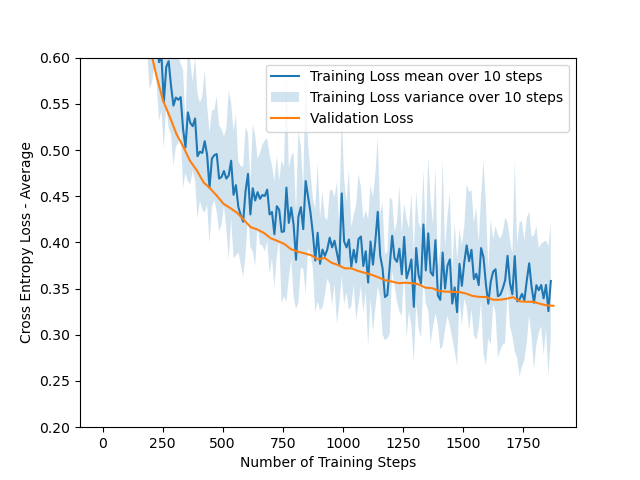
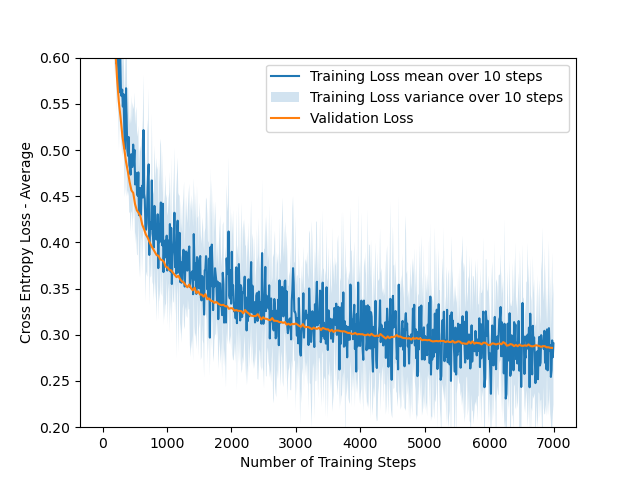
4c: wip
squash

Changed region(s): [[0.1562, 0.125, 0.9062, 0.9375], [0.2188, 0.9062, 0.2812, 0.9375]]

diff --git a/assignment1/task3.py b/assignment1/task3.py
@@ -91,74 +91,104 @@ if __name__ == "__main__":
 
     # ANY PARTS OF THE CODE BELOW THIS CAN BE CHANGED.
 
-    # Intialize model
-    model = SoftmaxModel(l2_reg_lambda)
-    # Train model
-    trainer = SoftmaxTrainer(
-        model,
-        learning_rate,
-        batch_size,
-        shuffle_dataset,
-        X_train,
-        Y_train,
-        X_val,
-        Y_val,
-    )
-    train_history, val_history = trainer.train(num_epochs)
+    beyond_task_4b = True
 
-    print(
-        "Final Train Cross Entropy Loss:",
-        cross_entropy_loss(Y_train, model.forward(X_train)),
-    )
-    print(
-        "Final Validation Cross Entropy Loss:",
-        cross_entropy_loss(Y_val, model.forward(X_val)),
-    )
-    print("Final Train accuracy:", calculate_accuracy(X_train, Y_train, model))
-    print("Final Validation accuracy:", calculate_accuracy(X_val, Y_val, model))
+    if beyond_task_4b:
+        # Intialize model
+        model = SoftmaxModel(l2_reg_lambda)
+        # Train model
+        trainer = SoftmaxTrainer(
+            model,
+            learning_rate,
+            batch_size,
+            shuffle_dataset,
+            X_train,
+            Y_train,
+            X_val,
+            Y_val,
+        )
+        train_history, val_history = trainer.train(num_epochs)
 
-    plt.ylim([0.2, 0.6])
-    utils.plot_loss(train_history["loss"], "Training Loss", npoints_to_average=10)
-    utils.plot_loss(val_history["loss"], "Validation Loss")
-    plt.legend()
-    plt.xlabel("Number of Training Steps")
-    plt.ylabel("Cross Entropy Loss - Average")
-    plt.savefig("task3b_softmax_train_loss.png")
-    plt.show()
+        print(
+            "Final Train Cross Entropy Loss:",
+            cross_entropy_loss(Y_train, model.forward(X_train)),
+        )
+        print(
+            "Final Validation Cross Entropy Loss:",
+            cross_entropy_loss(Y_val, model.forward(X_val)),
+        )
+        print("Final Train accuracy:", calculate_accuracy(X_train, Y_train, model))
+        print("Final Validation accuracy:", calculate_accuracy(X_val, Y_val, model))
 
-    # Plot accuracy
-    plt.ylim([0.89, 0.93])
-    utils.plot_loss(train_history["accuracy"], "Training Accuracy")
-    utils.plot_loss(val_history["accuracy"], "Validation Accuracy")
-    plt.xlabel("Number of Training Steps")
-    plt.ylabel("Accuracy")
-    plt.legend()
-    plt.savefig("task3b_softmax_train_accuracy.png")
-    plt.show()
+        plt.ylim([0.2, 0.6])
+        utils.plot_loss(train_history["loss"], "Training Loss", npoints_to_average=10)
+        utils.plot_loss(val_history["loss"], "Validation Loss")
+        plt.legend()
+        plt.xlabel("Number of Training Steps")
+        plt.ylabel("Cross Entropy Loss - Average")
+        plt.savefig("task3b_softmax_train_loss.png")
+        plt.show()
 
-    # Train a model with L2 regularization (task 4b)
+        # Plot accuracy
+        plt.ylim([0.89, 0.93])
+        utils.plot_loss(train_history["accuracy"], "Training Accuracy")
+        utils.plot_loss(val_history["accuracy"], "Validation Accuracy")
+        plt.xlabel("Number of Training Steps")
+        plt.ylabel("Accuracy")
+        plt.legend()
+        plt.savefig("task3b_softmax_train_accuracy.png")
+        plt.show()
 
-    model1 = SoftmaxModel(l2_reg_lambda=2.0)
-    trainer = SoftmaxTrainer(
-        model1,
-        learning_rate,
-        batch_size,
-        shuffle_dataset,
-        X_train,
-        Y_train,
-        X_val,
-        Y_val,
-    )
-    train_history_reg01, val_history_reg01 = trainer.train(num_epochs)
-    # You can finish the rest of task 4 below this point.
+        # Train a model with L2 regularization (task 4b)
 
-    # Plotting of softmax weights (Task 4b)
-    # plt.imsave("task4b_softmax_weight.png", weight, cmap="gray")
+        model1 = SoftmaxModel(l2_reg_lambda=2.0)
+        trainer = SoftmaxTrainer(
+            model1,
+            learning_rate,
+            batch_size,
+            shuffle_dataset,
+            X_train,
+            Y_train,
+            X_val,
+            Y_val,
+        )
+        train_history_reg01, val_history_reg01 = trainer.train(num_epochs)
 
-    # Plotting of accuracy for difference values of lambdas (task 4c)
-    l2_lambdas = [2, 0.2, 0.02, 0.002]
-    plt.savefig("task4c_l2_reg_accuracy.png")
+    else:
+        # You can finish the rest of task 4 below this point.
 
-    # Task 4d - Plotting of the l2 norm for each weight
+        # Plotting of softmax weights (Task 4b)
+        # plt.imsave("task4b_softmax_weight.png", weight, cmap="gray")
 
-    plt.savefig("task4d_l2_reg_norms.png")
+        # Plotting of accuracy for difference values of lambdas (task 4c)
+        l2_lambdas = [2, 0.2, 0.02, 0.002]
+
+        for l2_lambda in l2_lambdas:
+
+            model2 = SoftmaxModel(l2_reg_lambda=l2_lambda)
+
+            trainer = SoftmaxTrainer(
+                model2,
+                learning_rate,
+                batch_size,
+                shuffle_dataset,
+                X_train,
+                Y_train,
+                X_val,
+                Y_val,
+            )
+            train_history_reg02, val_history_reg02 = trainer.train(num_epochs)
+
+            # Plot accuracy
+            # plt.ylim([0.89, 0.93])
+            utils.plot_loss(train_history_reg02["accuracy"], "Validation Accuracy")
+
+        plt.xlabel("Number of Training Steps")
+        plt.ylabel("Accuracy")
+        plt.legend()
+
+        plt.savefig("task4c_l2_reg_accuracy.png")
+
+        # Task 4d - Plotting of the l2 norm for each weight
+
+        plt.savefig("task4d_l2_reg_norms.png")

diff --git a/assignment1/trainer.py b/assignment1/trainer.py
@@ -89,16 +89,16 @@ class BaseTrainer:
                     # TODO (Task 2d): Implement early stopping here.
                     # You can access the validation loss in val_history["loss"]
                     prev_loss_mean = 0
-                    iterations_considered = 200
-                    for i in range(iterations_considered):
-                        prev_loss_mean += val_history["accuracy"].get(
-                            global_step - i * num_steps_per_val, 0
-                        )
-                    prev_loss_mean /= iterations_considered
+                    iterations_considered = 300
+                    # for i in range(iterations_considered):
+                    #     prev_loss_mean += val_history["accuracy"].get(
+                    #         global_step - i * num_steps_per_val, 0
+                    #     )
+                    # prev_loss_mean /= iterations_considered
 
-                    if prev_loss_mean >= val_loss:
-                        print("Early stop triggered at global step: ", global_step)
-                        return train_history, val_history
+                    # if prev_loss_mean >= val_loss:
+                    #     print("Early stop triggered at global step: ", global_step)
+                    #     return train_history, val_history
 
                 global_step += 1
         return train_history, val_history
